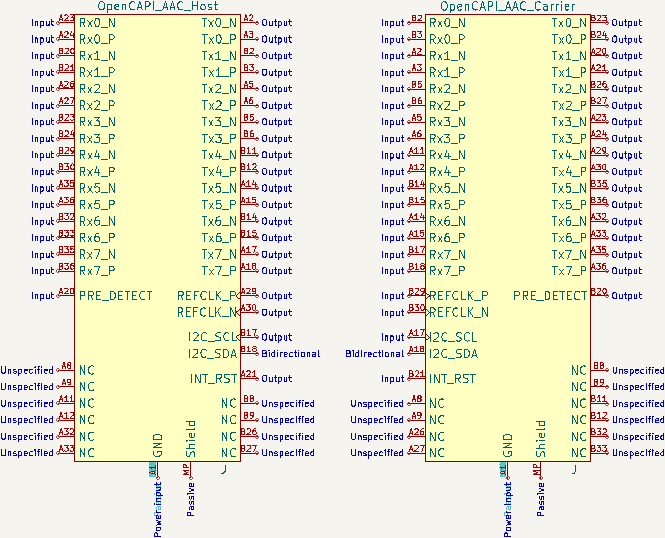
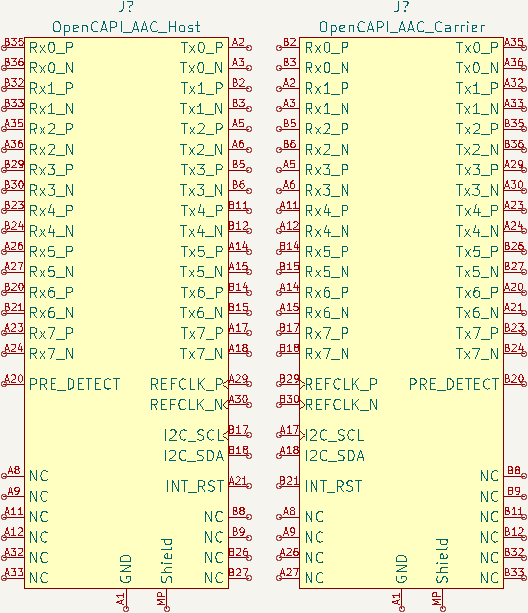
Updated Readme

diff --git a/README.md b/README.md
@@ -20,11 +20,20 @@ TX are inputs as the data will be sent over the Optical/Copper Interface Cable. 
 
 
 
+### Alveo U25 Debug Connector
+
+Pinout was [manually traced](https://github.com/mwrnd/notes/blob/main/Alveo_U25/debug_log.md#figuring-out-the-jtag-debug-connector).
+
+![Alveo U25 Debug Connector](img/Alveo_U25_Debug_Connector_MEC8-113-L-D.png)
+
+
+
+
 ### OpenCAPI Carrier and Host
 
-**FAULTY**
+**UNTESTED**
 
-The [OpenPower version of the AAC Spec](https://files.openpower.foundation/s/xSQPe6ypoakKQdq/download/25Gbps-spec-20171108.pdf) I used has a different pinout than the [ADM-PCIE-9V5 User Manual (Pg15-19of38)](https://www.alpha-data.com/xml/user_manuals/adm-pcie-9v5%20user%20manual_v1_4.pdf). Researching the correct pinout.
+Uses the pinout from the [ADM-PCIE-9V5 User Manual (Pg15-19of38)](https://www.alpha-data.com/xml/user_manuals/adm-pcie-9v5%20user%20manual_v1_4.pdf).
 
 Note that a [SlimSAS 8x](https://web.archive.org/web/20210121175017/https://www.sfpcables.com/24g-internal-slimsas-sff-8654-to-sff-8654-8i-cable-straight-to-90-degree-left-angle-8x-12-sas-4-0-85-ohm-0-5-1-meter) cable flips rows. Row A becomes B and vice versa. Use the symbol that is opposite to the one you will connect to. If you intend to connect your design to a board with the Carrier (Add-In Card) symbol, use the Host symbol in your design. TX and RX are relative to the symbol. TX for Host gets flipped by cable into RX for Carrier. **Please confirm this yourself before using the symbol!**
 
